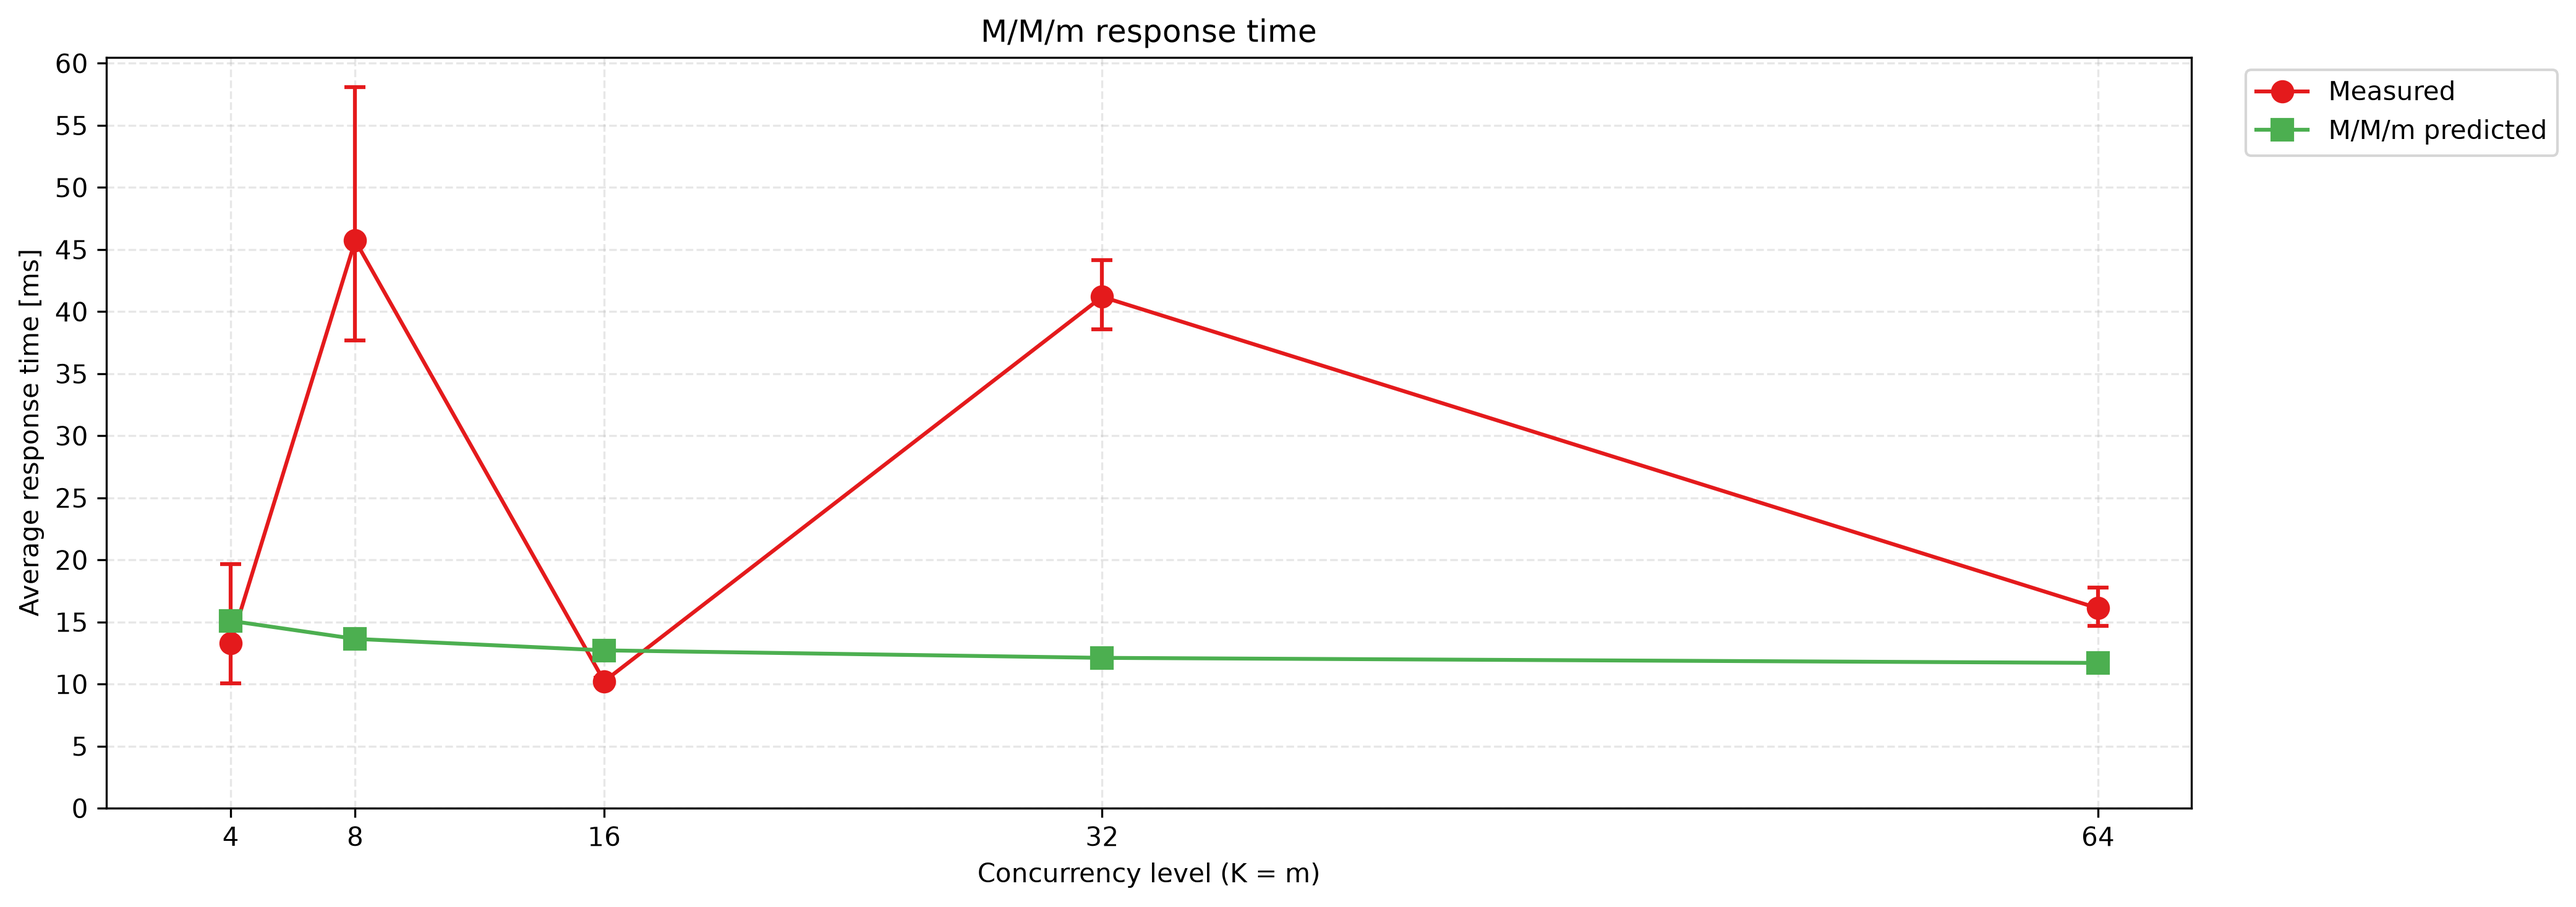
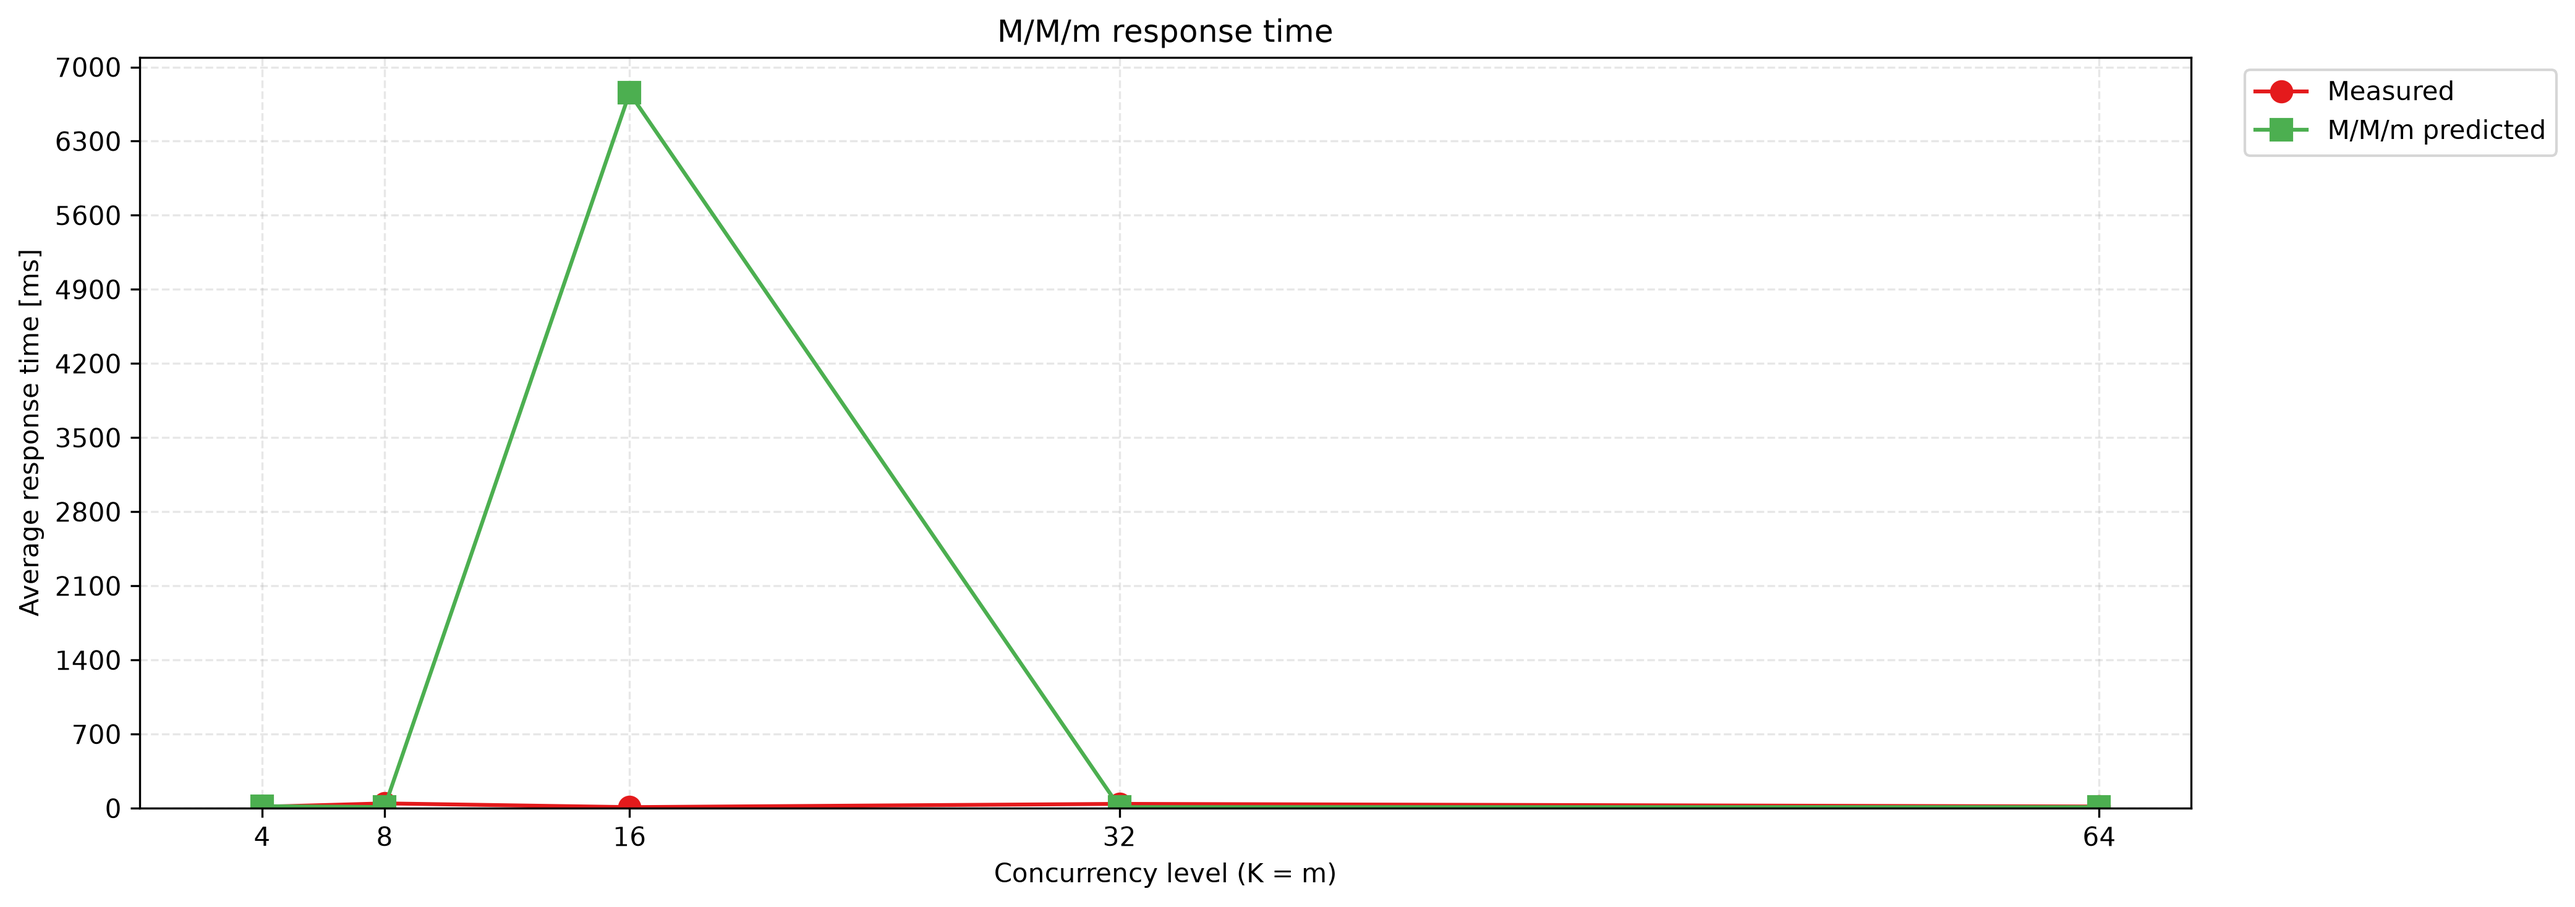
adjust response time

diff --git a/plot/exp3/mmm-responsetime.py b/plot/exp3/mmm-responsetime.py
@@ -8,12 +8,12 @@ from matplotlib.ticker import MultipleLocator
 
 sys.path.insert(0, os.path.join(os.path.dirname(__file__), ".."))
 from config import (
-    GREEN,
-    RED,
-    grid_style,
-    legend_pos,
-    load_csv,
-    mean_ci,
+    GREEN,  # pyright: ignore[reportAttributeAccessIssue]
+    RED,  # pyright: ignore[reportAttributeAccessIssue]
+    grid_style,  # pyright: ignore[reportAttributeAccessIssue]
+    legend_pos,  # pyright: ignore[reportAttributeAccessIssue]
+    load_csv,  # pyright: ignore[reportAttributeAccessIssue]
+    mean_ci,  # pyright: ignore[reportAttributeAccessIssue]
 )
 
 CC_LEVELS_PLOT = ["c4", "c8", "c16", "c32", "c64"]
@@ -134,11 +134,9 @@ def main():
         rt_lower = [M_used[i] / ci_uppers[i] * 1000 for i in range(n)]
         rt_upper = [M_used[i] / ci_lowers[i] * 1000 for i in range(n)]
 
-        # Predicted response time from closed M/M/m: λ = closed_throughput(K, μ)
-        # then E[r] = K / λ
-        rt_mmm = [
-            M_used[i] / closed_throughput(M_used[i], mu) * 1000 for i in range(n)
-        ]
+        # Predicted response time from open M/M/m:
+        # E[r] = 1/μ · (1 + q / (m·(1-ρ))) with λ = measured throughput at each K
+        rt_mmm = [mmm_response_time(M_used[i], means[i], mu) * 1000 for i in range(n)]
 
         fig, ax = plt.subplots(figsize=FIGSIZE)
 
